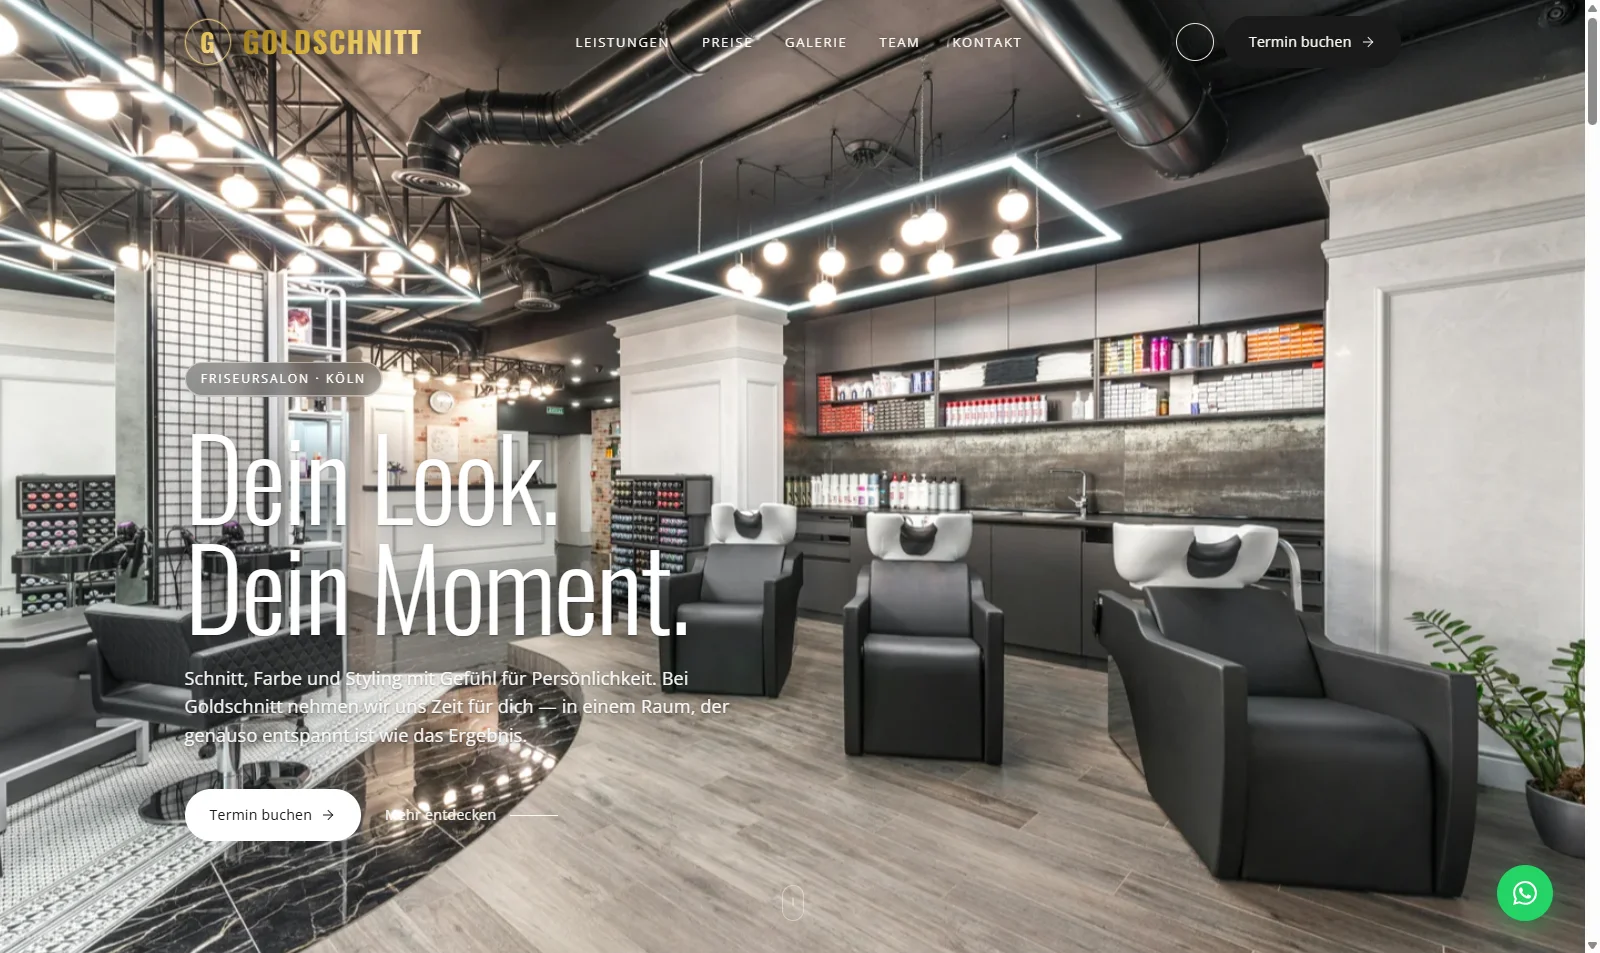
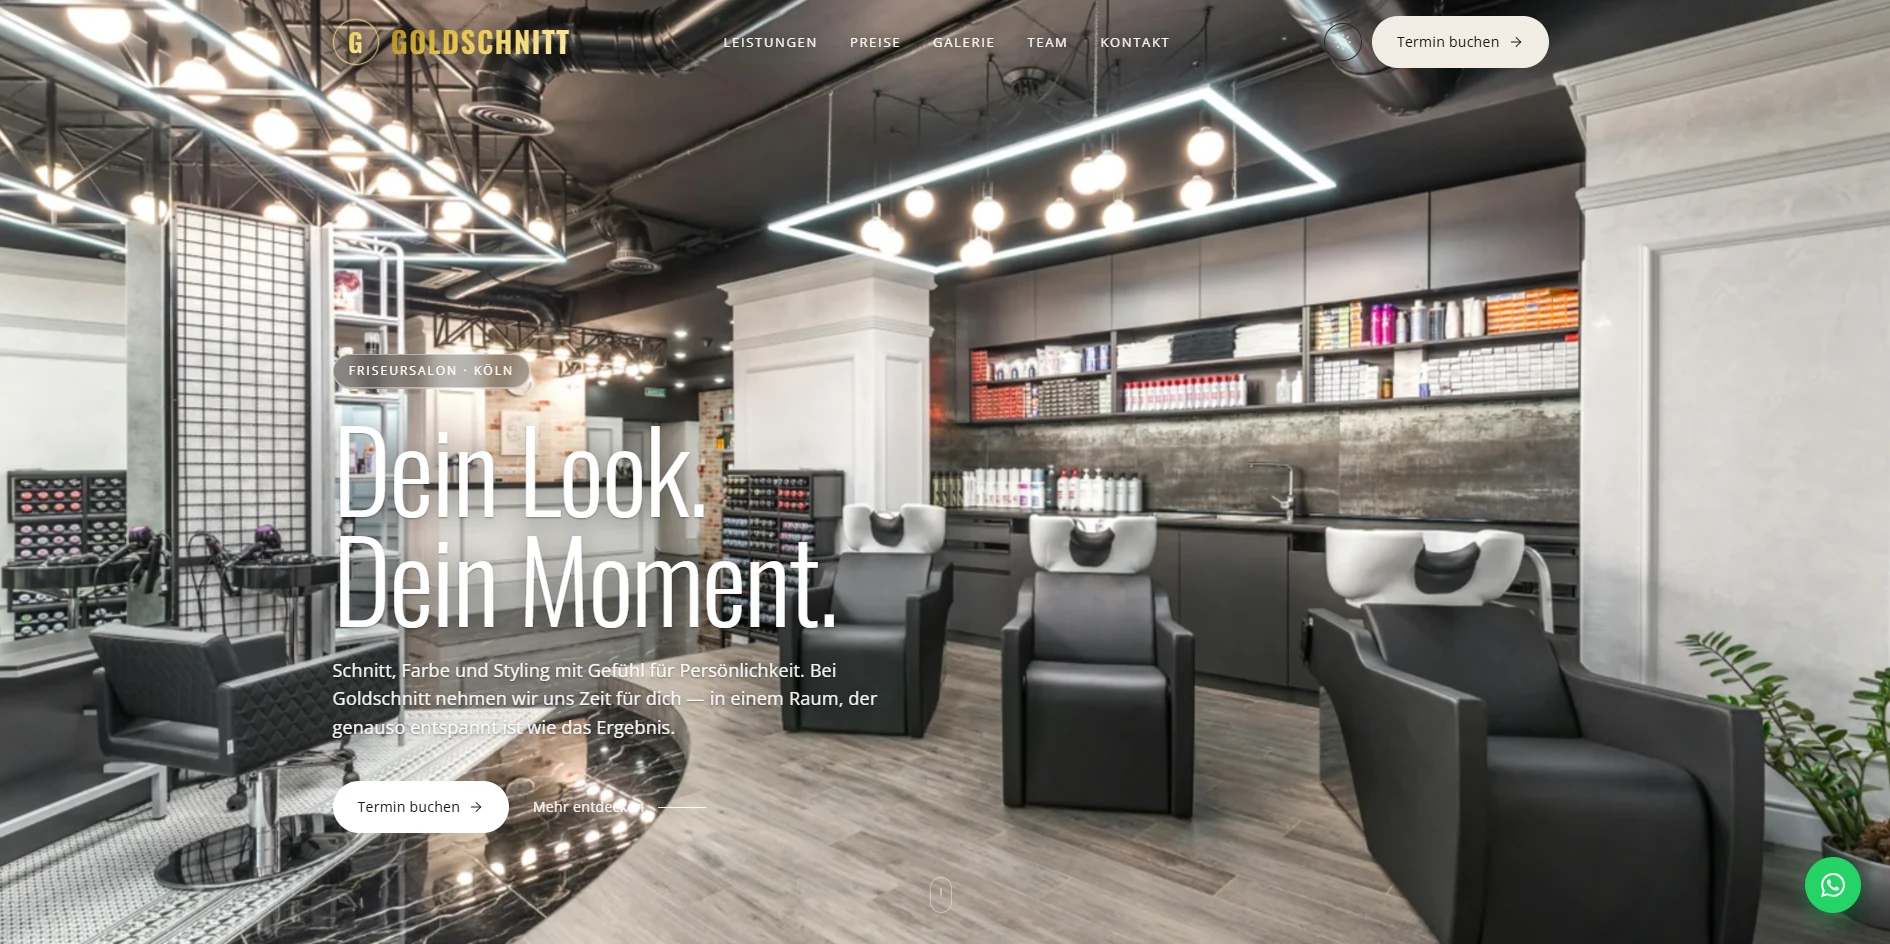
Projekt-Bilder Lunaverde, Vantera, Goldschnitt aktualisiert
- Echte Website-Screenshots ersetzen die Platzhalter-Grafiken
- width/height der img-Tags an reale Pixelmaße angepasst (CLS)

diff --git a/index.html b/index.html
@@ -15,7 +15,7 @@
     <link rel="preconnect" href="https://fonts.gstatic.com" crossorigin>
     <link rel="preload" as="style" href="https://fonts.googleapis.com/css2?family=Inter:wght@400;500;600;700;800;900&family=Fraunces:opsz,wght@9..144,500;9..144,600;9..144,700&display=swap">
     <link rel="stylesheet" href="https://fonts.googleapis.com/css2?family=Inter:wght@400;500;600;700;800;900&family=Fraunces:opsz,wght@9..144,500;9..144,600;9..144,700&display=swap">
-    <link rel="stylesheet" href="assets/css/main.css">
+    <link rel="stylesheet" href="assets/css/main.css?v=3">
 
     <noscript>
         <style>
@@ -584,7 +584,7 @@
                 <article class="project-card reveal" data-category="restaurant">
                     <a class="project-card__visual" href="https://trattorialunaverde.glanzdesign.eu" target="_blank" rel="noopener" aria-label="Trattoria Lunaverde Website ansehen">
                         <div class="project-card__image project-card__image--restaurant">
-                            <img src="assets/images/projects/lunaverde-hero.webp" alt="Trattoria Lunaverde – Website Vorschau" loading="lazy" decoding="async" width="1600" height="952">
+                            <img src="assets/images/projects/lunaverde-hero.webp" alt="Trattoria Lunaverde – Website Vorschau" loading="lazy" decoding="async" width="1252" height="698">
                         </div>
                     </a>
                     <div class="project-card__body">
@@ -606,7 +606,7 @@
                 <article class="project-card reveal reveal--delay-1" data-category="architecture">
                     <a class="project-card__visual" href="https://vantera.glanzdesign.eu" target="_blank" rel="noopener" aria-label="Vantera Architekten Website ansehen">
                         <div class="project-card__image project-card__image--medical">
-                            <img src="assets/images/projects/vantera-hero.webp" alt="Vantera Architekten – Website Vorschau" loading="lazy" decoding="async" width="1600" height="952">
+                            <img src="assets/images/projects/vantera-hero.webp" alt="Vantera Architekten – Website Vorschau" loading="lazy" decoding="async" width="1764" height="944">
                         </div>
                     </a>
                     <div class="project-card__body">
@@ -628,7 +628,7 @@
                 <article class="project-card reveal reveal--delay-2" data-category="beauty">
                     <a class="project-card__visual" href="https://goldschnitt.glanzdesign.eu" target="_blank" rel="noopener" aria-label="Goldschnitt Friseursalon Website ansehen">
                         <div class="project-card__image project-card__image--craft">
-                            <img src="assets/images/projects/goldschnitt-hero.webp" alt="Goldschnitt – Website Vorschau" loading="lazy" decoding="async" width="1600" height="952">
+                            <img src="assets/images/projects/goldschnitt-hero.webp" alt="Goldschnitt – Website Vorschau" loading="lazy" decoding="async" width="1890" height="944">
                         </div>
                     </a>
                     <div class="project-card__body">

diff --git a/projekte.html b/projekte.html
@@ -94,7 +94,7 @@
                 <article class="project-card reveal" data-category="restaurant">
                     <a class="project-card__visual" href="https://trattorialunaverde.glanzdesign.eu" target="_blank" rel="noopener" aria-label="Trattoria Lunaverde Website ansehen">
                         <div class="project-card__image project-card__image--restaurant">
-                            <img src="assets/images/projects/lunaverde-hero.webp" alt="Trattoria Lunaverde – Website Vorschau" loading="lazy" decoding="async" width="1600" height="952">
+                            <img src="assets/images/projects/lunaverde-hero.webp" alt="Trattoria Lunaverde – Website Vorschau" loading="lazy" decoding="async" width="1252" height="698">
                         </div>
                     </a>
                     <div class="project-card__body">
@@ -116,7 +116,7 @@
                 <article class="project-card reveal reveal--delay-1" data-category="architecture">
                     <a class="project-card__visual" href="https://vantera.glanzdesign.eu" target="_blank" rel="noopener" aria-label="Vantera Architekten Website ansehen">
                         <div class="project-card__image project-card__image--medical">
-                            <img src="assets/images/projects/vantera-hero.webp" alt="Vantera Architekten – Website Vorschau" loading="lazy" decoding="async" width="1600" height="952">
+                            <img src="assets/images/projects/vantera-hero.webp" alt="Vantera Architekten – Website Vorschau" loading="lazy" decoding="async" width="1764" height="944">
                         </div>
                     </a>
                     <div class="project-card__body">
@@ -138,7 +138,7 @@
                 <article class="project-card reveal reveal--delay-2" data-category="beauty">
                     <a class="project-card__visual" href="https://goldschnitt.glanzdesign.eu" target="_blank" rel="noopener" aria-label="Goldschnitt Friseursalon Website ansehen">
                         <div class="project-card__image project-card__image--craft">
-                            <img src="assets/images/projects/goldschnitt-hero.webp" alt="Goldschnitt – Website Vorschau" loading="lazy" decoding="async" width="1600" height="952">
+                            <img src="assets/images/projects/goldschnitt-hero.webp" alt="Goldschnitt – Website Vorschau" loading="lazy" decoding="async" width="1890" height="944">
                         </div>
                     </a>
                     <div class="project-card__body">